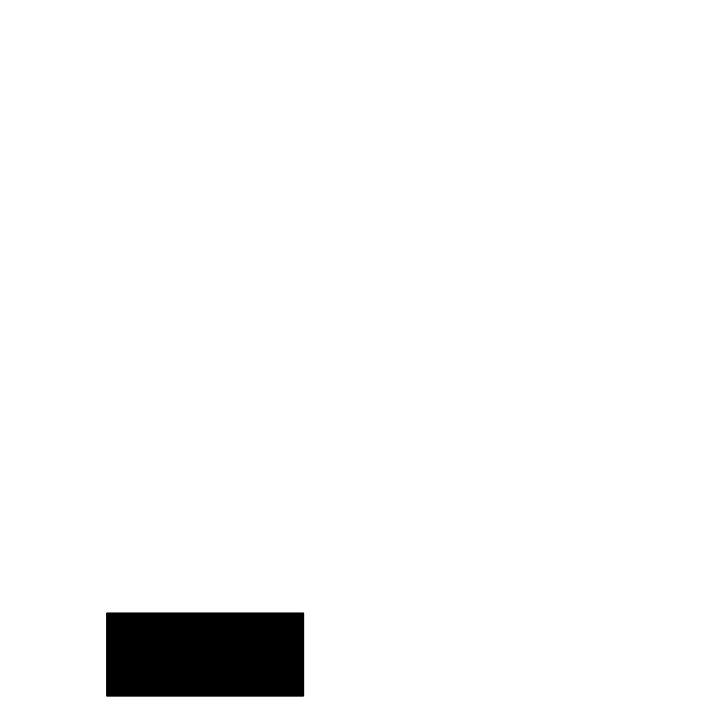
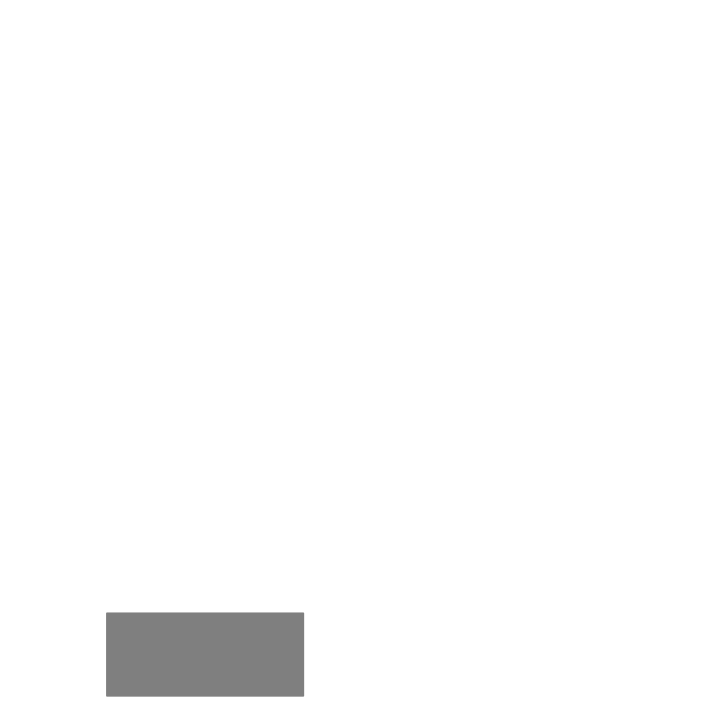
Initial work on guidance

Changed region(s): [[0.1222, 0.825, 0.4278, 0.9778]]

diff --git a/OculusRoomTiny/OculusRoomTiny (DX11)/main.cpp b/OculusRoomTiny/OculusRoomTiny (DX11)/main.cpp
@@ -61,6 +61,9 @@ cv::Mat img_left;
 cv::Mat img_right;
 cv::Mat img_up;
 std::vector<cv::Mat > img_exps;
+cv::Mat img_exp_composite;
+std::vector<cv::Mat > img_l;
+std::vector<cv::Mat > img_r;
 
 //------------------------------------------------------------
 // ovrSwapTextureSet wrapper class that also maintains the render target views
@@ -152,7 +155,7 @@ struct OculusTexture
 
 int g_currentExperiment = EXP_1_ID;
 int g_currentCard = 0; //2 of spades
-int g_visType = VIS_GUIDANCE_ON_CARD;
+int g_visType = VIS_REASONING_ON_CARD;
 
 bool cardGoesLeft(int cardId, int experimentId) {
 	int cardNum = (cardId % 8) + 2; //2-9 of each suit
@@ -335,8 +338,16 @@ void processMarkers(unsigned char* p, int ovWidth, int ovHeight, std::vector< in
 		}
 		else {
 			expandMarker(rotatedCorners, 4.0f);
-			fillMarkerWithImage(p, img_exps[g_currentExperiment % 60], ovWidth, ovHeight, rotatedCorners, true);
-			//TODO Reasoning version
+			img_exps[g_currentExperiment % 60].copyTo(img_exp_composite);
+			if (g_visType == VIS_REASONING_ON_CARD) {
+				if (goLeft) {
+					img_exp_composite = img_exp_composite.mul(img_r[0], 1.0 / 255.0);
+				}
+				else {
+					img_exp_composite = img_exp_composite.mul(img_l[0], 1.0 / 255.0);
+				}
+			}
+			fillMarkerWithImage(p, img_exp_composite, ovWidth, ovHeight, rotatedCorners, true);
 		}
 	}
 	else if (g_visType == VIS_ARROWS_ON_BOX && ((goLeft && boxIndices.first != -1) || (!goLeft && boxIndices.second != -1))) {
@@ -444,10 +455,25 @@ static bool MainLoop(bool retryCreate)
 	img_left = cv::imread("left.png", CV_LOAD_IMAGE_COLOR);
 	img_right = cv::imread("right.png", CV_LOAD_IMAGE_COLOR);
 	img_up = cv::imread("up.png", CV_LOAD_IMAGE_COLOR);
+	
 	img_exps.push_back(cv::imread("exp60.png", CV_LOAD_IMAGE_COLOR));
 	img_exps.push_back(cv::imread("exp61.png", CV_LOAD_IMAGE_COLOR));
 	img_exps.push_back(cv::imread("exp62.png", CV_LOAD_IMAGE_COLOR));
 	img_exps.push_back(cv::imread("exp63.png", CV_LOAD_IMAGE_COLOR));
+	
+	img_exp_composite = cv::imread("exp60.png", CV_LOAD_IMAGE_COLOR);
+	
+	img_l.push_back(cv::imread("L1.png", CV_LOAD_IMAGE_COLOR));
+	img_l.push_back(cv::imread("L2.png", CV_LOAD_IMAGE_COLOR));
+	img_l.push_back(cv::imread("L3.png", CV_LOAD_IMAGE_COLOR));
+	img_l.push_back(cv::imread("L4.png", CV_LOAD_IMAGE_COLOR));
+	img_l.push_back(cv::imread("L5.png", CV_LOAD_IMAGE_COLOR));
+
+	img_r.push_back(cv::imread("R1.png", CV_LOAD_IMAGE_COLOR));
+	img_r.push_back(cv::imread("R2.png", CV_LOAD_IMAGE_COLOR));
+	img_r.push_back(cv::imread("R3.png", CV_LOAD_IMAGE_COLOR));
+	img_r.push_back(cv::imread("R4.png", CV_LOAD_IMAGE_COLOR));
+	img_r.push_back(cv::imread("R5.png", CV_LOAD_IMAGE_COLOR));
 
 	{
 		std::vector< int > markerIds;
